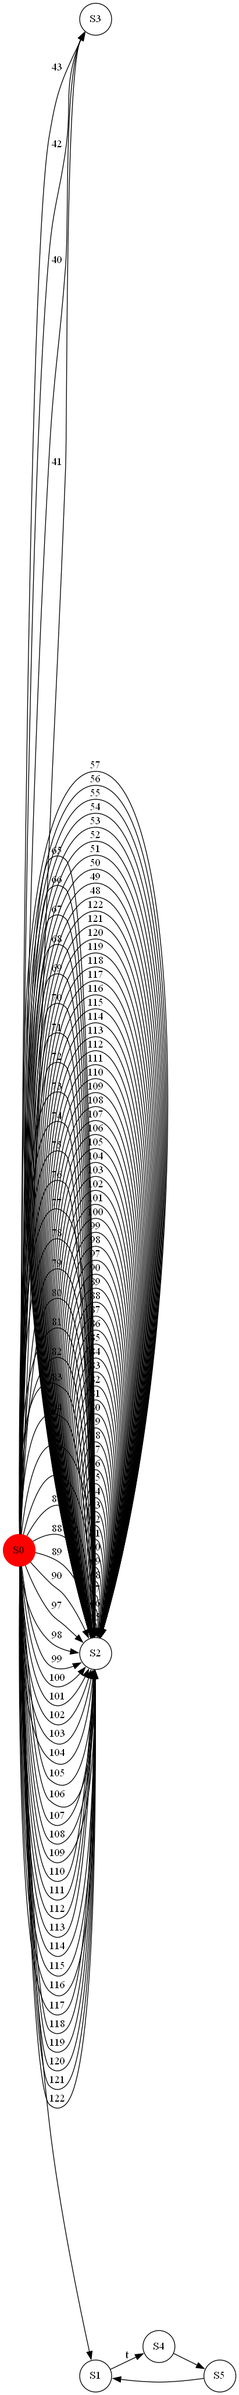
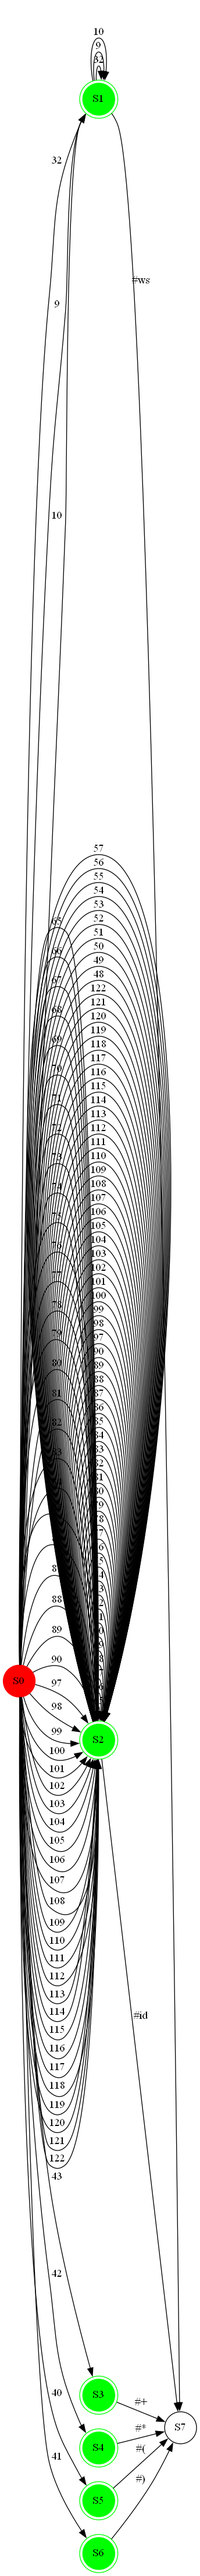
AFD (Funcional)

diff --git a/YalexReader.py b/YalexReader.py
@@ -15,13 +15,19 @@ class YALexGenerator(object):
         self.build_regex_expression()
 
     #Creamos la expresión regular a partir de la lectura del archivo
+    # Se crea la funcion para leer el archivo
     def build_regex_expression(self):
+        # Se abre el archivo para leer
         with open(self.filename, "r") as file:  
+
+            # Se crea una variable para conocer si se toman los token y una para la regex final
             tokens = None
             final_regex = []
-            #Hacemos la iteración línea por línea del archivo
+
+            # Se itera por cada linea
             for line in file:
-                # Verificamos en qué línea se encuentra un let
+
+                # Si la linea tiene un let
                 if('let' in line):
                     # Se reemplazan los espacios vacios
                     line = line.replace('let ', '')
@@ -41,12 +47,14 @@ class YALexGenerator(object):
                             separator_counter = value.count('-')
                             # Si se debe de realizar un ciclo 
                             if(separator_counter != 0):
+
                                 # Se crea un ciclo while para iterar con respecto a la cantidad de ciclos de caracteres
                                 index_counter = 1
                                 first_value = ""
                                 second_value = ""
                                 first_apostrophe = None
                                 second_apostrophe = None
+
                                 while(separator_counter != 0):
                                     # Se visualiza que exista una apostrofe y la segunda
                                     # Para conocer que elemento inicia el ciclo
@@ -89,7 +97,6 @@ class YALexGenerator(object):
                                 first_value = ""
                                 first_apostrophe = None
                                 second_apostrophe = None
-
                                 while(value[index_counter] != ']'):
                                     # Se buscan las apostrofes
                                     if(value[index_counter] == "'" and not first_apostrophe):
@@ -98,12 +105,21 @@ class YALexGenerator(object):
                                         second_apostrophe = index_counter
                                     # Se encuentra el valor dentro de las apostrofes y se guarda como tal
                                     if(first_apostrophe and second_apostrophe):
-                                        first_value = value[(first_apostrophe + 1):second_apostrophe]
+                                        first_value = str(value[(first_apostrophe + 1):second_apostrophe])
                                         first_apostrophe = None
                                         second_apostrophe = None
                                         if(first_value == ''):
                                             first_value = ' '
+                                            first_value = ord(first_value)
+                                        elif(first_value.startswith("\\")):
+                                            first_value = first_value.replace("\\", '')
+                                            if(first_value == "n"):
+                                                first_value = ord("\n")
+                                            elif(first_value == "t"):
+                                                first_value = ord("\t")
                                         value_definition.append(first_value)
+                                        if(value[index_counter + 1] != ']'):
+                                            value_definition.append("|")
                                     # Se itera en todos los valores
                                     index_counter += 1
                         # Si el charset se define entre comillas dobles, por lo tanto son valores uno despues de otro
@@ -161,6 +177,7 @@ class YALexGenerator(object):
                                     new_string = ""
                                 if(not first_apostrophe):
                                     value_list.append(value[i])
+
                         # Se tienen el diccionario con las definiciones
                         dictionary_keys = list(self.regular_expressions.keys())
                         # Se itera entre las definiciones para ver si existen en el valor
@@ -194,6 +211,7 @@ class YALexGenerator(object):
                         # Para el valor final de la definicion se agregan en el primero y ultimo valor un parentesis
                         value_list[0:0] = '('
                         value_list[len(value_list):len(value_list)] = ')'
+
                         # Se guarda la definicion con su valor en el diccionario
                         self.regular_expressions[definition] = value_list
                 # Si se encuentra la linea de rule tokens se pone como verdadera la variables
@@ -221,6 +239,7 @@ class YALexGenerator(object):
                                 apostrophes_value = line[(first_apostrophe + 1):i]
                                 value_ascii = ord(apostrophes_value)
                                 final_regex.append(value_ascii)
+                                final_regex.append(f"#{apostrophes_value}")
                                 first_apostrophe = None
                     # Si tiene comillas dobles el caracter se revisa
                     elif('"' in line):
@@ -235,6 +254,7 @@ class YALexGenerator(object):
                             elif(line[i] == '"' and first_apostrophe != None):
                                 apostrophes_value = line[(first_apostrophe + 1):i]
                                 final_regex.append(apostrophes_value)
+                                final_regex.append(f"#{apostrophes_value}")
                                 first_apostrophe = None
                     # Si no tiene nada de lo anterior
                     else:
@@ -243,6 +263,7 @@ class YALexGenerator(object):
                             # Si existe una definicion en la linea se agrega a la expresion final
                             if i in line:
                                 final_regex[len(final_regex):len(final_regex)] = self.regular_expressions[i]
+                                final_regex.append(f"#{i}")
         # Se guarda la expresion regular final en el atributo de la clase
         self.regex = final_regex
                         

diff --git a/AFD.py b/AFD.py
@@ -6,7 +6,7 @@ from FA import FA
 
 class AFD_construction(FA):
     def __init__(self, regex=None):
-        self.regex = None
+        self.regex = regex
         self.states_counter = 0
         self.states = []
         self.transitions = []
@@ -107,7 +107,7 @@ class AFD_construction(FA):
         # Se itera mientras haya nuevos estados por procesar
         unprocessed_states = ["S0"]
         while unprocessed_states:
-            state = unprocessed_states.pop()
+            state = unprocessed_states.pop(0)
             # Se agrega el estado al conjunto de estados del AFD
             afd.states.append(state)
             # Se obtienen los followpos del estado actual para cada símbolo del alfabeto
@@ -124,7 +124,7 @@ class AFD_construction(FA):
                     # Se agrega la transición del estado actual al nuevo estado
                     afd.transitions.append([state, symbol, next(key for key, value in Dstates.items() if value == followpos_set)])
                     # Si el nuevo estado contiene un nodo final, se agrega al conjunto de estados finales del AFD
-                    if any(node.value == "$" for node in followpos_set):
+                    if any(node.value == "#" for node in followpos_set):
                         afd.final_state[state] = symbol
 
         # Se genera la imagen del AFD
@@ -385,38 +385,31 @@ class AFD_construction(FA):
     def simulate_afd(self, string):
         with open(string, 'r') as file:
             file_content = file.read()
-        
         # Convertimos el contenido del archivo a una lista de enteros
         file_stack = [ord(char) for char in file_content]
-        
         characters_list = []
         last_token = None
         current_state = self.initial_state
-        
         # Verificamos caracter por caracter
         for char in file_stack:
             # Agregamos el caracter actual a la lista de caracteres a verificar
             characters_list.append(char)
-            
+            print("Caracteres: ", characters_list)
             # Realizamos el move del estado actual con el caracter actual
             next_state = self.move(current_state, char)
-            
             # Si el move devuelve un estado vacío, significa que la cadena no es aceptada
             if not next_state:
                 print("Cadena No Aceptada")
                 return None
-            
             # Verificamos si llegamos a un estado final
             if next_state in self.final_state:
                 last_token = self.final_state[next_state]
-                
+                print("last_token: ", last_token)
             current_state = next_state
-            
         # Si llegamos al final del archivo y no encontramos un estado final, la cadena no es aceptada
         if not last_token:
             print("Cadena No Aceptada")
             return None
-        
         print(last_token)
         return last_token
 

diff --git a/RegexErrorChecker.py b/RegexErrorChecker.py
@@ -9,6 +9,7 @@ class RegexErrorChecker(object):
         self.regex = regex
         self.operators_list = ['|', '?', '*', '+']
         self.operators = []
+        self.postfix_expression = []
         self.ERROR_CHECKER()
 
     def ERROR_CHECKER(self):
@@ -44,8 +45,6 @@ class RegexErrorChecker(object):
     def to_postfix(self):
         # Lista donde se guardan los caracteres que aún no han sido procesados
         characters_queue = []
-        # Lista donde se guarda la expresión en notación postfix
-        postfix_expression = []
         # Iteramos sobre los caracteres de la expresión regular
         for i in range(len(self.regex)):
             char = self.regex[i]
@@ -70,7 +69,7 @@ class RegexErrorChecker(object):
             elif(char == ')'):
                 # Desapilamos operadores y los agregamos a la lista postfix hasta encontrar el paréntesis abierto correspondiente
                 while(self.operators[-1] != '('):
-                    postfix_expression.append(self.operators.pop())
+                    self.postfix_expression.append(self.operators.pop())
                 # Desapilamos el paréntesis abierto correspondiente
                 self.operators.pop()
             # Si el caracter es un operador
@@ -81,16 +80,16 @@ class RegexErrorChecker(object):
                     last_char_precedence = self.precedence(last_char)
                     char_precedence = self.precedence(char)
                     if(last_char_precedence >= char_precedence):
-                        postfix_expression.append(self.operators.pop())
+                        self.postfix_expression.append(self.operators.pop())
                     else:
                         break
                 # Agregamos char a la pila de operadores
                 self.operators.append(char)
         # Desapilamos todos los operadores restantes y los agregamos a la lista postfix
         while(len(self.operators) > 0):
-            postfix_expression.append(self.operators.pop())
+            self.postfix_expression.append(self.operators.pop())
         # Devolvemos la expresión en notación postfix
-        return postfix_expression
+        return self.postfix_expression
 
 
 

diff --git a/main.py b/main.py
@@ -12,6 +12,7 @@ from AFD import AFD_construction
 from YalexReader import *
 from AFD import *
 
+
 print('\n¡ADVERTENCIA! Deberá ingresar las expresiones regulares sin "." en la concatenación, el programa los agregará.')
 
 """
@@ -95,7 +96,7 @@ dfa_direct.output_image('AFDYalex')"""
 yal = YALexGenerator("./Archivos Yal/slr-1.yal")
 tree = RegextoTree(yal.regex)
 tree.buildTree()
-afd= AFD_construction()
+afd = AFD_construction()
 afd.afd_direct_(yal.regex, "Yalex1")
 afd.simulate_afd("./LabD_test_file/test1.txt")
 
